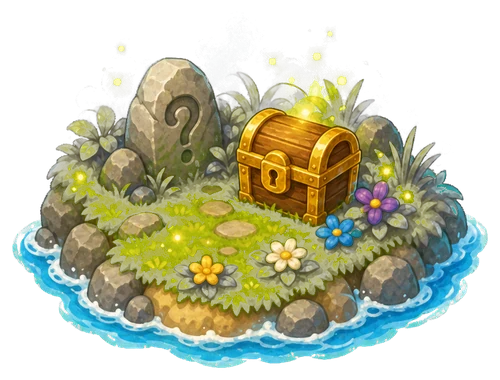
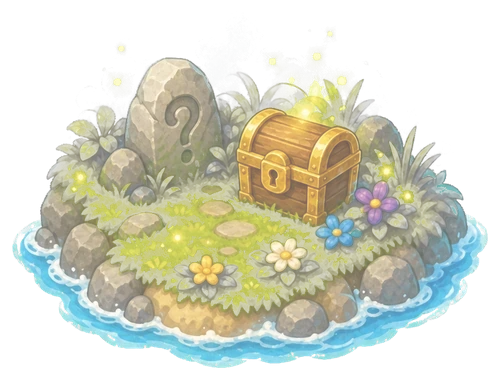
Fine tune music and mystery islands

diff --git a/index.html b/index.html
@@ -207,7 +207,7 @@
       position: absolute;
       z-index: 4;
       left: 53.8%;
-      top: 33.8%;
+      top: 36.1%;
       width: 13.6%;
       aspect-ratio: 420 / 285;
       pointer-events: none;
@@ -721,7 +721,7 @@
       <span class="wobble-piece" style="--left:28%;--top:62%;--width:34%;--height:38%;--duration:2.95s;--delay:-1.9s"><img src="assets/wobble-fun.webp" alt="" aria-hidden="true"></span>
       <span class="wobble-piece" style="--left:67%;--top:64%;--width:33%;--height:36%;--duration:2.68s;--delay:-.7s"><img src="assets/wobble-finish.webp" alt="" aria-hidden="true"></span>
       <span class="wobble-piece music" style="--left:44.9%;--top:27.7%;--width:17.2%;--height:21.6%;--duration:2.4s;--delay:-1.1s"><img src="assets/music-island-base.webp" alt="" aria-hidden="true"></span>
-      <span class="wobble-piece mystery" style="--left:2%;--top:38%;--width:15%;--height:16%;--duration:3.2s;--delay:-.8s"><img src="assets/wobble-mystery.webp" alt="" aria-hidden="true"></span>
+      <span class="wobble-piece mystery" style="--left:3.5%;--top:39.5%;--width:12%;--height:12.8%;--duration:3.2s;--delay:-.8s"><img src="assets/wobble-mystery.webp" alt="" aria-hidden="true"></span>
       <span class="music-foreground" aria-hidden="true"><img src="assets/music-foreground.webp" alt=""></span>
 
       <button class="scenery-hotspot" style="--x:6%;--y:10%;--w:10%;--h:15%" data-scene="sun" aria-label="点击太阳，听一句英文夸奖"></button>
@@ -732,7 +732,7 @@
       <button class="scenery-hotspot" style="--x:23%;--y:87%;--w:10%;--h:12%" data-scene="dolphin" aria-label="点击海豚，播放海豚叫声"></button>
       <button class="scenery-hotspot" style="--x:94%;--y:70%;--w:11%;--h:17%" data-scene="fireworks" aria-label="点击烟花，播放烟花爆炸声"></button>
       <button class="scenery-hotspot music-hotspot" style="--x:53.5%;--y:38%;--w:14%;--h:17%" data-music-control aria-label="点击音乐岛，播放或切换背景音乐"></button>
-      <button class="scenery-hotspot" style="--x:9.5%;--y:46%;--w:12%;--h:12%" data-mystery-bonus aria-label="点击神秘岛，获得一次彩蛋打卡"></button>
+      <button class="scenery-hotspot" style="--x:9.5%;--y:46%;--w:10%;--h:10%" data-mystery-bonus aria-label="点击神秘岛，获得一次彩蛋打卡"></button>
 
       <button class="hotspot" style="--x:34%;--y:18%" data-task="sport" aria-label="体育打卡，运动岛前进一步"></button>
       <button class="hotspot" style="--x:59%;--y:18%" data-task="english" aria-label="英语打卡，英语湾前进一步"></button>

diff --git a/src/summer-adventure-checkin.html b/src/summer-adventure-checkin.html
@@ -118,7 +118,7 @@
       position: absolute;
       z-index: 4;
       left: 53.8%;
-      top: 33.8%;
+      top: 36.1%;
       width: 13.6%;
       aspect-ratio: 420 / 285;
       pointer-events: none;
@@ -632,7 +632,7 @@
       <span class="wobble-piece" style="--left:28%;--top:62%;--width:34%;--height:38%;--duration:2.95s;--delay:-1.9s"><img src="assets/wobble-fun.webp" alt="" aria-hidden="true"></span>
       <span class="wobble-piece" style="--left:67%;--top:64%;--width:33%;--height:36%;--duration:2.68s;--delay:-.7s"><img src="assets/wobble-finish.webp" alt="" aria-hidden="true"></span>
       <span class="wobble-piece music" style="--left:44.9%;--top:27.7%;--width:17.2%;--height:21.6%;--duration:2.4s;--delay:-1.1s"><img src="assets/music-island-base.webp" alt="" aria-hidden="true"></span>
-      <span class="wobble-piece mystery" style="--left:2%;--top:38%;--width:15%;--height:16%;--duration:3.2s;--delay:-.8s"><img src="assets/wobble-mystery.webp" alt="" aria-hidden="true"></span>
+      <span class="wobble-piece mystery" style="--left:3.5%;--top:39.5%;--width:12%;--height:12.8%;--duration:3.2s;--delay:-.8s"><img src="assets/wobble-mystery.webp" alt="" aria-hidden="true"></span>
       <span class="music-foreground" aria-hidden="true"><img src="assets/music-foreground.webp" alt=""></span>
 
       <button class="scenery-hotspot" style="--x:6%;--y:10%;--w:10%;--h:15%" data-scene="sun" aria-label="点击太阳，听一句英文夸奖"></button>
@@ -643,7 +643,7 @@
       <button class="scenery-hotspot" style="--x:23%;--y:87%;--w:10%;--h:12%" data-scene="dolphin" aria-label="点击海豚，播放海豚叫声"></button>
       <button class="scenery-hotspot" style="--x:94%;--y:70%;--w:11%;--h:17%" data-scene="fireworks" aria-label="点击烟花，播放烟花爆炸声"></button>
       <button class="scenery-hotspot music-hotspot" style="--x:53.5%;--y:38%;--w:14%;--h:17%" data-music-control aria-label="点击音乐岛，播放或切换背景音乐"></button>
-      <button class="scenery-hotspot" style="--x:9.5%;--y:46%;--w:12%;--h:12%" data-mystery-bonus aria-label="点击神秘岛，获得一次彩蛋打卡"></button>
+      <button class="scenery-hotspot" style="--x:9.5%;--y:46%;--w:10%;--h:10%" data-mystery-bonus aria-label="点击神秘岛，获得一次彩蛋打卡"></button>
 
       <button class="hotspot" style="--x:34%;--y:18%" data-task="sport" aria-label="体育打卡，运动岛前进一步"></button>
       <button class="hotspot" style="--x:59%;--y:18%" data-task="english" aria-label="英语打卡，英语湾前进一步"></button>

diff --git a/service-worker.js b/service-worker.js
@@ -1,4 +1,4 @@
-const APP_CACHE = 'summer-adventure-pwa-v1784541292458';
+const APP_CACHE = 'summer-adventure-pwa-v1784542783480';
 const MEDIA_CACHE = 'summer-adventure-media-v1';
 const SHELL_ASSETS = [
   "./",
